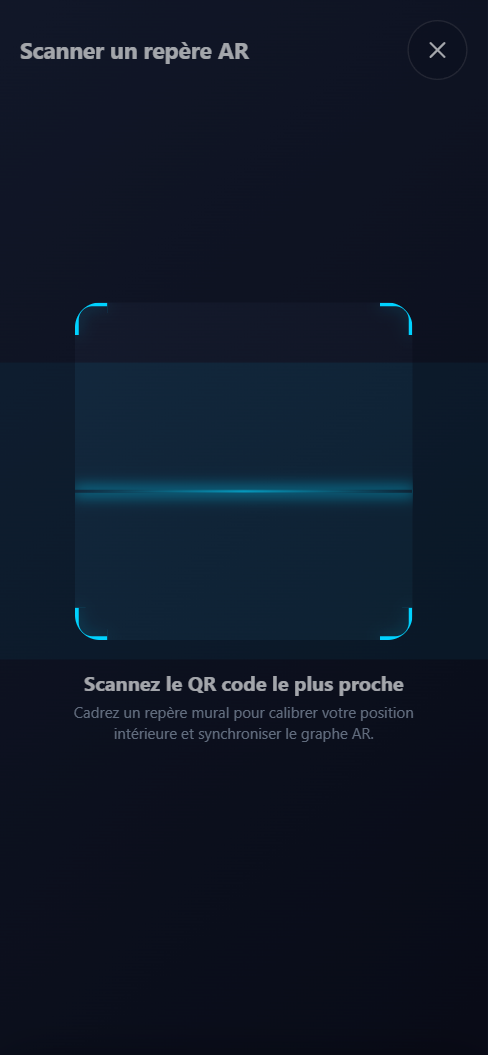
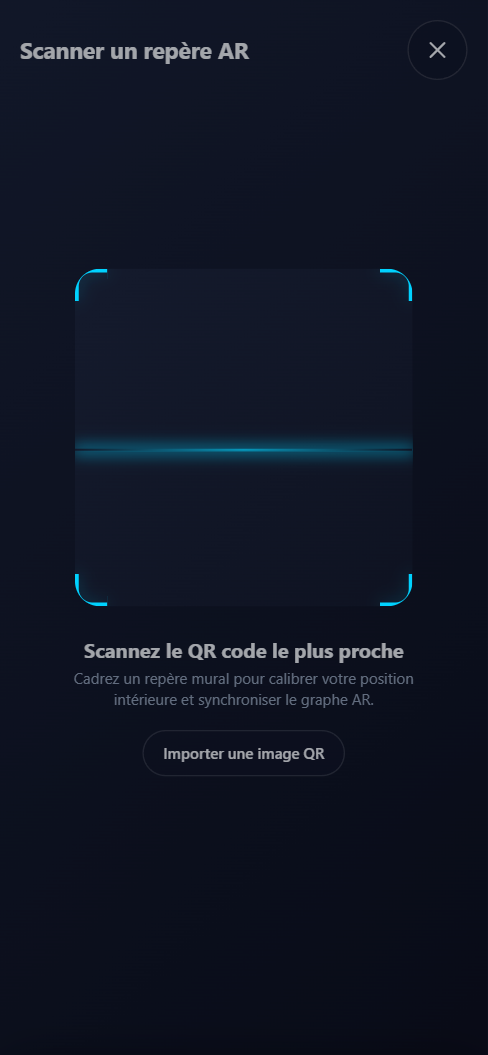
docs: showcase the interactive plan and v2.2 demo
- replace stale cube screenshots with the floor plan, route and QR upload
- document the demo node clicks, desktop QR fallback and AR badge
- record 2.2.0 in the changelog and update technical/user docs

diff --git a/README.md b/README.md
@@ -11,8 +11,8 @@
 | **Brief** | Cahier des charges v1.0 — 24 October 2026 |
 | **Changelog** | [CHANGELOG.md](CHANGELOG.md) |
 | **Docs** | [Technical](docs/technical.md) · [User manual](docs/user-manual.md) · [Design notebook](docs/design-notebook.md) |
-| **App version** | `v2.1.0` (Sprint 3/4) |
-| **Sprint** | Sprints 1–3 complete; Sprint 4 code ready |
+| **App version** | `v2.2.0` (Sprint 4 + interactive plan) |
+| **Sprint** | Sprints 1–3 complete; interactive demo + Sprint 4 code |
 | **Last updated** | 2026-11-11 |
 
 ---
@@ -129,27 +129,27 @@ sequenceDiagram
 
 ## Screenshots
 
-Captured on **2026-11-11** from v2.1.0 at a 390 × 844 mobile viewport.
+Captured on **2026-11-11** from v2.2.0 at a 390 × 844 mobile viewport.
 
-| Home — 3D scene | Scanner — live camera |
+| Home — interactive floor plan | Scanner + QR fallback |
 |:---:|:---:|
-| <img src="docs/screenshots/01-home.png" width="280" alt="Home screen with Three.js scene"><br>**Home** — Three.js scene | <img src="docs/screenshots/02-scan.png" width="280" alt="Live camera scanner overlay"><br>**Scanner** — camera + QR overlay |
-| <img src="docs/screenshots/03-destinations.png" width="280" alt="Graph-generated destination list with real distances"><br>**Destinations** — 9 graph nodes, real distances | <img src="docs/screenshots/04-search.png" width="280" alt="Destination search filtered to Amphi A"><br>**Search** — live filtering |
+| <img src="docs/screenshots/01-home.png" width="280" alt="Interactive floor plan with 12 nodes and 12 edges"><br>**Home** — real building graph, not a cube | <img src="docs/screenshots/02-scan.png" width="280" alt="QR scanner overlay with image upload fallback"><br>**Scanner** — camera + image upload |
+| <img src="docs/screenshots/03-destinations.png" width="280" alt="Graph-generated destinations with real Dijkstra distances"><br>**Destinations** — 9 nodes, real distances | <img src="docs/screenshots/04-search.png" width="280" alt="Destination search filtered to Amphi A"><br>**Search** — live filtering |
 
-**Real Dijkstra route, captured from the app:**
+**Real Dijkstra route, highlighted on the plan:**
 
-<img src="docs/screenshots/05-route.png" width="320" alt="Route panel showing Amphi A, 54 metres and five steps">
+<img src="docs/screenshots/05-route.png" width="320" alt="Route panel showing Salle B12, 26 metres and three steps">
 
-The scanner screenshot uses a simulated camera feed in headless Chrome; on a
-phone it shows the real camera. The route distances are computed from
-`assets/building.json`, not hard-coded.
+The scanner screenshot uses a simulated camera feed in headless Chrome; the
+upload button is the real desktop fallback. Distances and the cyan path come
+from `assets/building.json` + Dijkstra, not hard-coded values.
 
 ---
 
 ## What is already built
 
 Sprints 1–3 are complete; the Sprint 4 WebXR code is ready for device testing
-(**v2.1.0**).
+and the home screen is a real interactive floor plan (**v2.2.0**).
 
 ### 1. Mobile-first PWA shell — `index.html`
 
@@ -159,7 +159,16 @@ Sprints 1–3 are complete; the Sprint 4 WebXR code is ready for device testing
 - PWA icons, manifest and offline Service Worker.
 - Running status toast, online/offline badge and persistent position chip.
 
-### 2. Real QR scanner — `src/scanner.js`
+### 2. Interactive floor plan — `index.html`, `main.js`
+
+- SVG plan generated from `assets/building.json`: 12 nodes, 12 edges.
+- Functionally labelled rooms and corridors; `AR : disponible/non disponible` badge.
+- Click a node to simulate a QR position — explicitly labelled **Démo**.
+- Dijkstra path highlighted in cyan; route panel with real distance and steps.
+- QR image upload fallback for desktops without a camera.
+- The Three.js canvas is hidden outside AR; no floating cube on the home screen.
+
+### 3. Real QR scanner — `src/scanner.js`
 
 - Rear camera via `getUserMedia`, native `BarcodeDetector`, jsQR fallback.
 - One detection every 150 ms, 2 s cooldown per value, no overlapping decodes.
@@ -167,7 +176,7 @@ Sprints 1–3 are complete; the Sprint 4 WebXR code is ready for device testing
   the permission prompt; camera tracks are always released.
 - QR payload = graph node ID (`ENTREE`, `SALLE_B12`, …).
 
-### 3. Building graph and real routing — `navigation.js`, `main.js`
+### 4. Building graph and real routing — `navigation.js`, `main.js`
 
 - `assets/building.json`: 12 nodes, 12 weighted edges, one floor.
 - Adjacency list + Dijkstra + `AvoidStairsStrategy` extension point.
@@ -176,7 +185,7 @@ Sprints 1–3 are complete; the Sprint 4 WebXR code is ready for device testing
 - Position updates on each QR scan and recomputes the route immediately.
 - Nine Node tests cover nodes, edges, paths, distances and reachability.
 
-### 4. WebXR augmented reality — `src/ar.js`
+### 5. WebXR augmented reality — `src/ar.js`
 
 - Support probe with `navigator.xr.isSessionSupported('immersive-ar')`.
 - `requestSession` with `hit-test`, optional `anchors` and `dom-overlay`.
@@ -185,11 +194,14 @@ Sprints 1–3 are complete; the Sprint 4 WebXR code is ready for device testing
 - `XRAnchor` keeps the arrow stable; graceful fallback when unsupported.
 - Start/stop AR controls and session cleanup.
 
-### 5. What was verified (2026-11-11)
+### 6. What was verified (2026-11-11)
 
 - Dijkstra: 9/9 Node tests pass; Salle B12 = 26 m, Amphi A = 54 m.
 - Fake-camera integration: `ENTREE` QR → position chip → 9 graph destinations
   with real distances → Salle B12 route 26 m · 3 steps.
+- QR image upload: `ENTREE` decoded on desktop → same position/route.
+- Floor plan: 12 nodes, 12 edges, 9 labels, 3 highlighted route edges.
+- Map click: HALL → Salle B12 recomputes to 16 m / 2 steps.
 - AR unsupported path: clear message, no crash.
 - Closed dialogs skipped by Tab, focus trapped, camera released on close.
 - WebGL/CDN failure fallbacks, offline reload and manifest/icons still pass.

diff --git a/docs/technical.md b/docs/technical.md
@@ -1,6 +1,6 @@
 # Documentation technique — Indoor Wayfinder
 
-**Version :** 2.1.0 — Sprint 3/4
+**Version :** 2.2.0 — Sprint 3/4
 **Équipe :** Yassine Mhiri, Oussema Harrabi, Amin Jarbaoui
 **Superviseur :** Mohamed-Becha Kaâniche — INDP3-SIA 26-27
 
@@ -78,10 +78,19 @@ node --test scripts/test-navigation.mjs
 Les tests vérifient les nœuds, les arêtes, les poids, l'accessibilité depuis
 l'entrée et les itinéraires de référence.
 
+### 4.1 Vue plan interactif
+
+`src/main.js` lit `getAllNodes()` / `getEdges()` et dessine le graphe en SVG.
+Le chemin Dijkstra est surligné en cyan. Un clic sur un nœud appelle
+`setCurrentNode()` : c'est un mode démonstration explicite, équivalent à un
+scan QR, pour permettre une démonstration sur ordinateur sans caméra.
+
 ## 5. QR codes
 
 Chaque QR encode **l'identifiant exact d'un nœud**, par exemple `ENTREE`,
 `HALL`, `SALLE_B12`. Le scanner normalise la valeur en majuscules.
+Sur ordinateur, le bouton **Importer une image QR** décode un fichier image
+avec le même backend (`BarcodeDetector` ou jsQR).
 
 Génération locale :
 
@@ -139,10 +148,14 @@ demande de permission.
 6. sur `select`, place la flèche et crée un `XRAnchor` ;
 7. restaure la scène à la fin de la session.
 
+La page d'accueil est le plan SVG. `setARView(true)` masque le plan et affiche
+le canvas Three.js avant la session ; `setARView(false)` restaure le plan à la
+fin. Le cube de démonstration est masqué hors AR.
+
 La flèche est générée par `createArrow()` : forme extrudée plate de 1 m,
 origine à la queue, pointe vers +Z, matériau non éclairé.
 
-**Limite v2.1.0 :** l'orientation utilise la direction de la caméra au moment
+**Limite v2.2.0 :** l'orientation utilise la direction de la caméra au moment
 du placement. La calibration au nord du bâtiment (orientation du QR ou
 boussole) est prévue au Sprint 5.
 
@@ -170,7 +183,9 @@ Vérifications manuelles :
 - QR `ENTREE` scanné → pastille « Vous êtes ici : Entrée principale » ;
 - destination Salle B12 → itinéraire 26 m en 3 étapes ;
 - bouton Guidage AR → session si WebXR/ARCore est disponible, sinon message ;
-- mode avion après un premier chargement → le shell et Three.js démarrent.
+- mode avion après un premier chargement → le shell et Three.js démarrent ;
+- plan : 12 nœuds, 12 arêtes, 9 libellés, clic `ENTREE` → `SALLE_B12` = 26 m ;
+- upload QR sur ordinateur → même position et même itinéraire.
 
 ## 11. Limites connues
 

diff --git a/docs/user-manual.md b/docs/user-manual.md
@@ -1,6 +1,6 @@
 # Manuel utilisateur — Indoor Wayfinder
 
-**Version :** 2.1.0
+**Version :** 2.2.0
 **Public :** visiteurs, étudiants, candidats, personnel du bâtiment
 
 ## Ce dont vous avez besoin
@@ -18,6 +18,7 @@ navigateur. Vous pouvez l'ajouter à l'écran d'accueil depuis le menu Chrome.
 2. Autorisez l'accès à la **caméra** quand Chrome le demande.
 3. Appuyez sur **SCANNER**.
 4. Cadrez le **QR code le plus proche** dans le viseur.
+   - Sur ordinateur, utilisez **Importer une image QR** à la place de la caméra.
    - Le voyant de position affiche **« Vous êtes ici : … »**.
    - Si le QR est inconnu, vérifiez que vous êtes dans le bon bâtiment.
 5. Appuyez sur **DESTINATION**.
@@ -30,6 +31,13 @@ navigateur. Vous pouvez l'ajouter à l'écran d'accueil depuis le menu Chrome.
     l'itinéraire est recalculé automatiquement.
 11. Appuyez sur **Quitter AR** pour terminer le guidage.
 
+## Mode démonstration sur ordinateur
+
+Le plan interactif est affiché au démarrage. Un clic sur un nœud simule un
+scan QR (libellé **Démo**). Choisissez ensuite une destination : la ligne cyan
+et les distances sont calculées par Dijkstra. Ce mode sert à montrer le
+fonctionnement sans téléphone ; la démonstration réelle utilise la caméra.
+
 ## Comprendre l'écran
 
 | Élément | Signification |
@@ -41,6 +49,8 @@ navigateur. Vous pouvez l'ajouter à l'écran d'accueil depuis le menu Chrome.
 | Bouton **Guidage AR** | Démarre la session `immersive-ar` |
 | Bouton **Quitter AR** | Termine la session AR |
 | Badge **En ligne / Hors ligne** | État de la connexion |
+| Badge **AR : disponible / non disponible** | Support WebXR de l'appareil |
+| Plan + ligne cyan | Graphe du bâtiment et itinéraire calculé |
 
 ## Bon à savoir
 

diff --git a/CHANGELOG.md b/CHANGELOG.md
@@ -3,6 +3,35 @@
 All notable changes to Indoor Wayfinder are documented here.
 The format follows [Keep a Changelog](https://keepachangelog.com/en/1.1.0/).
 
+## [2.2.0] - 2026-11-11
+
+Concrete demo pass: the home screen is now the real building graph, not the
+demo cube.
+
+### Added
+
+- Interactive SVG floor plan generated from `assets/building.json`.
+- Click a graph node to simulate a QR position (explicitly labelled demo).
+- Dijkstra route highlighted on the map with total distance and steps.
+- QR image upload fallback for desktop browsers without a camera.
+- WebXR support badge (`AR : disponible` / `AR : non disponible`).
+- Map/AR view switch: the Three.js canvas is shown only during AR.
+
+### Changed
+
+- The demo cube, grid and ground glow are hidden outside AR.
+- Map is the default view; 3D rendering is skipped while the map is visible.
+- AR start shows the canvas before requesting the session; failure restores the map.
+- Cache version bumped to `v2.2.0`.
+
+### Verified
+
+- 12 nodes, 12 edges and 9 readable labels rendered in the SVG.
+- QR image `ENTREE` uploaded → position chip → Salle B12 26 m / 3 steps.
+- Clicking the HALL node recomputes the route to Salle B12 (16 m / 2 steps).
+- Map route highlight has 3 edges; no console errors.
+- Desktop `AR : non disponible` fallback works.
+
 ## [2.1.0] - 2026-11-11
 
 Sprint 2–4: real QR localization, real Dijkstra routing and the first

diff --git a/docs/design-notebook.md b/docs/design-notebook.md
@@ -1,6 +1,6 @@
 # Design notebook — Indoor Wayfinder
 
-**Version :** 2.1.0
+**Version :** 2.2.0
 **Cahier des charges :** v1.0 — 24 octobre 2026
 **Équipe :** Yassine Mhiri, Oussema Harrabi, Amin Jarbaoui
 
@@ -192,7 +192,7 @@ flowchart LR
 | Hit test instable | Réticule + ancre, sinon pose au sol |
 | Direction AR non calibrée | Sprint 5 : orientation QR / boussole |
 | Performance mobile | Géométrie légère, pixel ratio ≤ 2, rendu suspendu sous les overlays |
-| Cache obsolète | Version de cache `v2.1.0`, navigation network-first |
+| Cache obsolète | Version de cache `v2.2.0`, navigation network-first |
 | Pages non actif | Activer Settings → Pages avant la démonstration |
 
 ## 11. Répartition et planning
